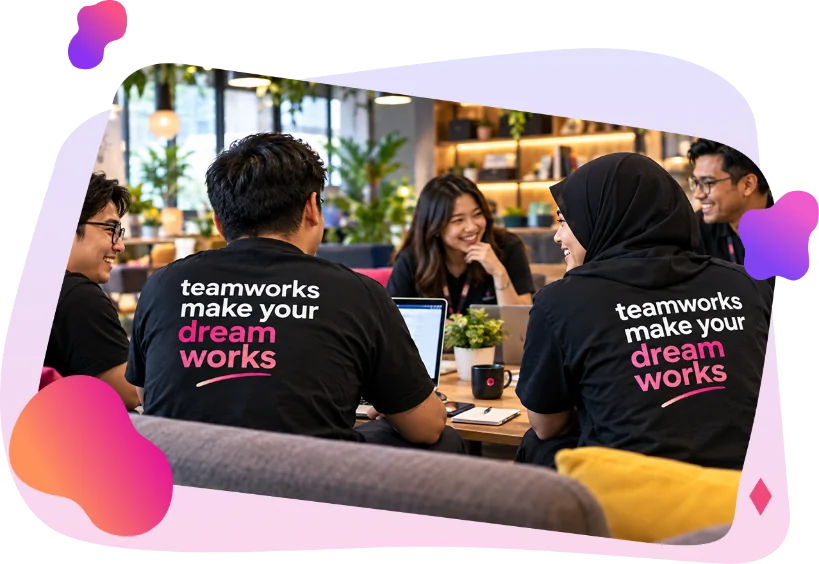
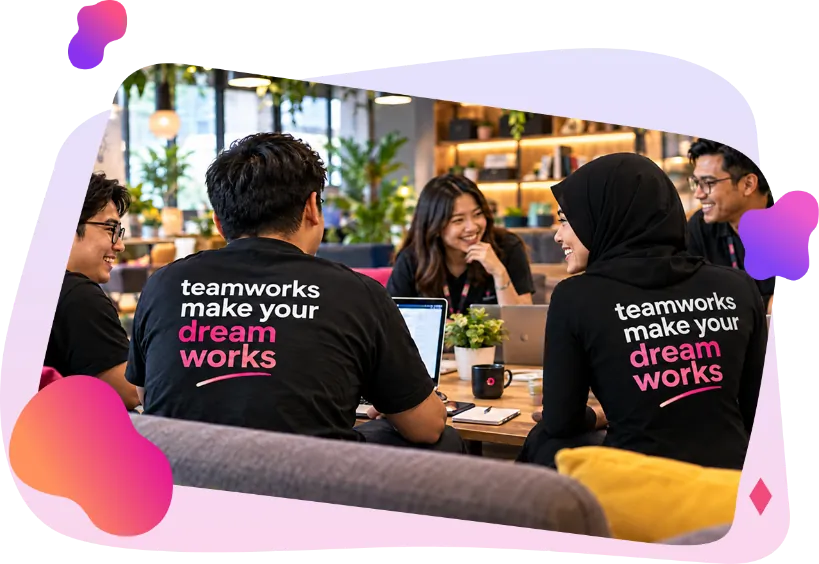
Polish Careers page and remove D1 broken blog link.
Update the careers hero image, absolute title, mobile role accordion, and section padding; drop the 404 /blog/how-to-delegate-without-losing-control link from fallbacks and WP HTML.

diff --git a/components/pages/careers/CareersOpportunities.tsx b/components/pages/careers/CareersOpportunities.tsx
@@ -1,6 +1,6 @@
 "use client";
 
-import { useState } from "react";
+import { useEffect, useState } from "react";
 import { Container } from "@/components/shared/Container";
 import { SafeImage } from "@/components/shared/SafeImage";
 import {
@@ -9,52 +9,102 @@ import {
   type CareersRole,
 } from "@/data/careers";
 
+function useIsMobileLayout() {
+  const [isMobile, setIsMobile] = useState(false);
+
+  useEffect(() => {
+    const mq = window.matchMedia("(max-width: 639px)");
+    const sync = () => setIsMobile(mq.matches);
+    sync();
+    mq.addEventListener("change", sync);
+    return () => mq.removeEventListener("change", sync);
+  }, []);
+
+  return isMobile;
+}
+
 function RoleRow({
   role,
   showTip,
   tipAlign,
+  isMobile,
   onEnter,
   onLeave,
+  onToggle,
 }: {
   role: CareersRole;
   showTip: boolean;
   tipAlign: "start" | "end";
+  isMobile: boolean;
   onEnter: () => void;
   onLeave: () => void;
+  onToggle: () => void;
 }) {
   const hasDetail = Boolean(role.whatYoullDo || role.requirements);
 
   return (
     <li
       className={`relative border-b border-[#E8EAF4] last:border-b-0 ${showTip ? "z-50" : "z-0"}`}
-      onMouseEnter={hasDetail ? onEnter : undefined}
-      onMouseLeave={hasDetail ? onLeave : undefined}
-      onFocus={hasDetail ? onEnter : undefined}
-      onBlur={hasDetail ? onLeave : undefined}
+      onMouseEnter={!isMobile && hasDetail ? onEnter : undefined}
+      onMouseLeave={!isMobile && hasDetail ? onLeave : undefined}
+      onFocus={!isMobile && hasDetail ? onEnter : undefined}
+      onBlur={!isMobile && hasDetail ? onLeave : undefined}
     >
-      <div
-        className="flex w-full items-center justify-between gap-1.5 px-2.5 py-2.5 text-left sm:px-3 sm:py-3"
-        tabIndex={hasDetail ? 0 : undefined}
-        role={hasDetail ? "button" : undefined}
-        aria-describedby={hasDetail && showTip ? `role-tip-${role.title}` : undefined}
-      >
-        <span className="min-w-0 whitespace-nowrap font-[var(--font-inter)] text-[11px] font-semibold leading-[1.6] tracking-normal text-[#080F40]">
-          {role.title}
-        </span>
-        {role.talentPool ? (
-          <span className="shrink-0 rounded-full bg-[#EAE5FD] px-1.5 py-px font-[var(--font-poppins)] text-[8px] font-bold uppercase leading-none tracking-wide text-[#6646BD]">
-            Talent pool
+      {hasDetail ? (
+        <button
+          type="button"
+          className="flex w-full items-center justify-between gap-1.5 px-2.5 py-2.5 text-left sm:px-3 sm:py-3"
+          aria-expanded={showTip}
+          aria-controls={`role-tip-${role.title}`}
+          onClick={isMobile ? onToggle : undefined}
+        >
+          <span className="min-w-0 whitespace-nowrap font-[var(--font-inter)] text-[11px] font-semibold leading-[1.6] tracking-normal text-[#080F40]">
+            {role.title}
           </span>
-        ) : null}
-      </div>
+          <span className="flex shrink-0 items-center gap-1.5">
+            {role.talentPool ? (
+              <span className="rounded-full bg-[#EAE5FD] px-1.5 py-px font-[var(--font-poppins)] text-[8px] font-bold uppercase leading-none tracking-wide text-[#6646BD]">
+                Talent pool
+              </span>
+            ) : null}
+            {isMobile ? (
+              <span
+                className={`inline-flex h-4 w-4 items-center justify-center text-[#6646BD] transition-transform ${
+                  showTip ? "rotate-180" : ""
+                }`}
+                aria-hidden
+              >
+                <svg viewBox="0 0 12 8" className="h-2.5 w-2.5 fill-current">
+                  <path d="M1.4.6 6 5.2 10.6.6 12 2 6 8 0 2z" />
+                </svg>
+              </span>
+            ) : null}
+          </span>
+        </button>
+      ) : (
+        <div className="flex w-full items-center justify-between gap-1.5 px-2.5 py-2.5 text-left sm:px-3 sm:py-3">
+          <span className="min-w-0 whitespace-nowrap font-[var(--font-inter)] text-[11px] font-semibold leading-[1.6] tracking-normal text-[#080F40]">
+            {role.title}
+          </span>
+          {role.talentPool ? (
+            <span className="shrink-0 rounded-full bg-[#EAE5FD] px-1.5 py-px font-[var(--font-poppins)] text-[8px] font-bold uppercase leading-none tracking-wide text-[#6646BD]">
+              Talent pool
+            </span>
+          ) : null}
+        </div>
+      )}
 
       {hasDetail && showTip ? (
         <div
           id={`role-tip-${role.title}`}
-          role="tooltip"
-          className={`absolute top-full z-[200] mt-[14px] box-border h-auto min-h-[219px] w-[min(376px,calc(100vw-2rem))] overflow-visible rounded-xl border border-[#E8EAF4] bg-white p-3 shadow-[0_16px_40px_rgba(17,16,76,0.24)] sm:p-4 ${
-            tipAlign === "end" ? "right-0 left-auto" : "left-0"
-          }`}
+          role={isMobile ? "region" : "tooltip"}
+          className={
+            isMobile
+              ? "relative z-[200] mx-1 mb-2 box-border overflow-visible rounded-xl border border-[#E8EAF4] bg-white p-3 shadow-[0_8px_20px_rgba(17,16,76,0.12)]"
+              : `absolute top-full z-[200] mt-[14px] box-border h-auto min-h-[219px] w-[min(376px,calc(100vw-2rem))] overflow-visible rounded-xl border border-[#E8EAF4] bg-white p-3 shadow-[0_16px_40px_rgba(17,16,76,0.24)] sm:p-4 ${
+                  tipAlign === "end" ? "right-0 left-auto" : "left-0"
+                }`
+          }
         >
           {role.whatYoullDo ? (
             <div className="mb-3">
@@ -85,6 +135,7 @@ function RoleRow({
 export function CareersOpportunities() {
   const d = careersOpportunities;
   const [hoverKey, setHoverKey] = useState<string | null>(null);
+  const isMobile = useIsMobileLayout();
   const lastIndex = careersCategories.length - 1;
 
   return (
@@ -162,9 +213,13 @@ export function CareersOpportunities() {
                         key={role.title}
                         role={role}
                         tipAlign={tipAlign}
+                        isMobile={isMobile}
                         showTip={hoverKey === key}
                         onEnter={() => setHoverKey(key)}
                         onLeave={() => setHoverKey(null)}
+                        onToggle={() =>
+                          setHoverKey((prev) => (prev === key ? null : key))
+                        }
                       />
                     );
                   })}

diff --git a/components/pages/careers/CareersApplication.tsx b/components/pages/careers/CareersApplication.tsx
@@ -17,7 +17,7 @@ export function CareersApplication() {
   return (
     <section
       id="apply"
-      className="scroll-mt-28 relative z-0 isolate overflow-hidden bg-[#F60996] py-12 sm:py-16 lg:py-24"
+      className="scroll-mt-28 relative z-0 isolate overflow-hidden bg-[#F60996] pt-[25px] pb-12 sm:py-16 lg:py-24"
     >
       <SafeImage
         src={d.backgroundImage}
@@ -29,10 +29,10 @@ export function CareersApplication() {
         className="h-full w-full object-cover object-center lg:object-fill"
         aria-hidden
       />
-      <Container className="relative z-10 max-w-[1440px] !px-4 sm:!px-6 lg:!px-20">
+      <Container className="relative z-10 max-w-[1440px] !px-[15px] sm:!px-6 lg:!px-20">
         <div className="grid items-start gap-8 sm:gap-10 lg:grid-cols-[minmax(0,0.9fr)_minmax(0,1.1fr)] lg:gap-14">
           <div className="text-white lg:pt-8">
-            <p className="pt-[30px] font-[var(--font-poppins)] text-[13px] font-bold uppercase leading-[1.4] tracking-[2px] text-white sm:pt-5 sm:text-[15px] lg:pt-0 lg:text-[17px]">
+            <p className="font-[var(--font-poppins)] text-[13px] font-bold uppercase leading-[1.4] tracking-[2px] text-white sm:text-[15px] lg:text-[17px]">
               {d.eyebrow}
             </p>
             <h2 className="mt-3 max-w-[550px] font-[var(--font-poppins)] text-[26px] font-bold leading-[1.12] tracking-[-0.8px] sm:text-[34px] lg:text-[45px] lg:tracking-[-1.2px]">

diff --git a/components/pages/careers/CareersWhyUs.tsx b/components/pages/careers/CareersWhyUs.tsx
@@ -6,7 +6,7 @@ export function CareersWhyUs() {
   const d = careersWhyUs;
 
   return (
-    <section className="relative z-0 isolate overflow-hidden bg-[#EAE5FD] py-12 text-white sm:py-16 lg:py-24">
+    <section className="relative z-0 isolate overflow-hidden bg-[#EAE5FD] pt-[25px] pb-12 text-white sm:py-16 lg:py-24">
       <SafeImage
         src={d.backgroundImage}
         alt=""
@@ -18,9 +18,9 @@ export function CareersWhyUs() {
         aria-hidden
       />
 
-      <Container className="relative z-10 max-w-[1440px] !px-4 sm:!px-6 lg:!px-20">
+      <Container className="relative z-10 max-w-[1440px] !px-[15px] sm:!px-6 lg:!px-20">
         <div className="mx-auto max-w-3xl text-center">
-          <p className="pt-[30px] font-[var(--font-poppins)] text-[13px] font-bold uppercase leading-[1.4] tracking-[2px] text-[#F60996] sm:pt-5 sm:text-[15px] lg:pt-0 lg:text-[17px]">
+          <p className="font-[var(--font-poppins)] text-[13px] font-bold uppercase leading-[1.4] tracking-[2px] text-[#F60996] sm:text-[15px] lg:text-[17px]">
             {d.eyebrow}
           </p>
           <h2 className="mt-3 font-[var(--font-poppins)] text-[26px] font-bold leading-[1.12] tracking-[-0.8px] sm:text-[34px] lg:text-[45px] lg:tracking-[-1.2px]">

diff --git a/lib/wp-public.ts b/lib/wp-public.ts
@@ -39,6 +39,10 @@ const DEAD_SCHEDULE_DEMO_HREF =
 const OLD_MAINTENANCE_COST_HREF =
   /(?:https?:\/\/(?:www\.)?deskteam360\.com)?\/blog\/website-maintenance-cost(?!-guide)\/?/gi;
 
+/** Missing post — unwrap link, keep anchor text (SEO developer-report D1). */
+const MISSING_DELEGATE_WITHOUT_CONTROL_ANCHOR =
+  /<a\b[^>]*\bhref=["'](?:https?:\/\/(?:www\.)?deskteam360\.com)?\/blog\/how-to-delegate-without-losing-control\/?["'][^>]*>([\s\S]*?)<\/a>/gi;
+
 /** Rewrite wp-content URLs inside WordPress HTML content. */
 export function rewriteWordPressContentHtml(html: string | undefined | null): string {
   if (!html) return html ?? "";
@@ -50,6 +54,9 @@ export function rewriteWordPressContentHtml(html: string | undefined | null): st
 
   // P1.3 — broken maintenance-cost links → guide
   out = out.replace(OLD_MAINTENANCE_COST_HREF, "/blog/website-maintenance-cost-guide");
+
+  // D1 — missing post: keep surrounding text, drop the href
+  out = out.replace(MISSING_DELEGATE_WITHOUT_CONTROL_ANCHOR, "$1");
 
   // Gate 5 F16 — apply approved alts to <img> tags when we have a match.
   out = out.replace(/<img\b([^>]*?)>/gi, (full, attrs: string) => {

diff --git a/data/blog.tsx b/data/blog.tsx
@@ -49,9 +49,11 @@ export const FEATURED_POST: BlogPost = {
 export const LATEST_POSTS: BlogPost[] = [
   {
     id: "latest-1",
-    slug: "how-to-delegate-without-losing-control",
-    title: "How to Delegate Tasks Effectively Without Losing Control",
-    excerpt: "Lorem ipsum dolor sit amet, consectetur adipiscing elit. Nullam vel convallis ante. Sed id rutrum odio, sit amet auctor nibh. Integer lectus urna, dictum in mi sed.",
+    // Live post — do not use /blog/how-to-delegate-without-losing-control (404; SEO D1).
+    slug: "how-to-delegate-tasks-effectively",
+    title: "How to Delegate Tasks When You Run the Whole Business",
+    excerpt:
+      "Most people think they're bad at delegating. Turns out the brief is usually the problem. Here's what to hand off first and how to write a task brief that comes back right.",
     image: "/images/blog/blog-delegate.webp",
     category: "Delegation",
     author: "Jeremy Kenerson",

diff --git a/components/pages/blog/LatestBlogs.tsx b/components/pages/blog/LatestBlogs.tsx
@@ -49,7 +49,14 @@ export function LatestBlogs({
 }: LatestBlogsProps) {
   const [clientPage, setClientPage] = useState(0);
 
-  const displayPosts = posts.length > 0 ? posts : DUMMY_POSTS;
+  // Dummy cards are local/dev only for All Posts. Empty category lists must stay
+  // empty — otherwise fallback slugs (SEO D1) ship as 404 links on live category pages.
+  const displayPosts =
+    posts.length > 0
+      ? posts
+      : selectedCategory === "All Posts"
+        ? DUMMY_POSTS
+        : [];
   const isAllPosts = selectedCategory === "All Posts";
   // Server pagination only when the parent already sliced All Posts for this URL page.
   const useServerPagination =

diff --git a/app/careers/page.tsx b/app/careers/page.tsx
@@ -8,7 +8,8 @@ import { BreadcrumbJsonLd, homeBreadcrumb } from "@/components/seo/BreadcrumbJso
 import { withPageCanonical } from "@/lib/seo";
 
 export const metadata: Metadata = withPageCanonical("/careers", {
-  title: "Careers | DeskTeam360",
+  // Absolute — avoid layout template doubling to "Careers | DeskTeam360 | DeskTeam360"
+  title: { absolute: "Careers | DeskTeam360" },
   description:
     "Build your career with DeskTeam360. Explore roles across technical, operations, sales, content, and paid media — or join our talent pool.",
 });
